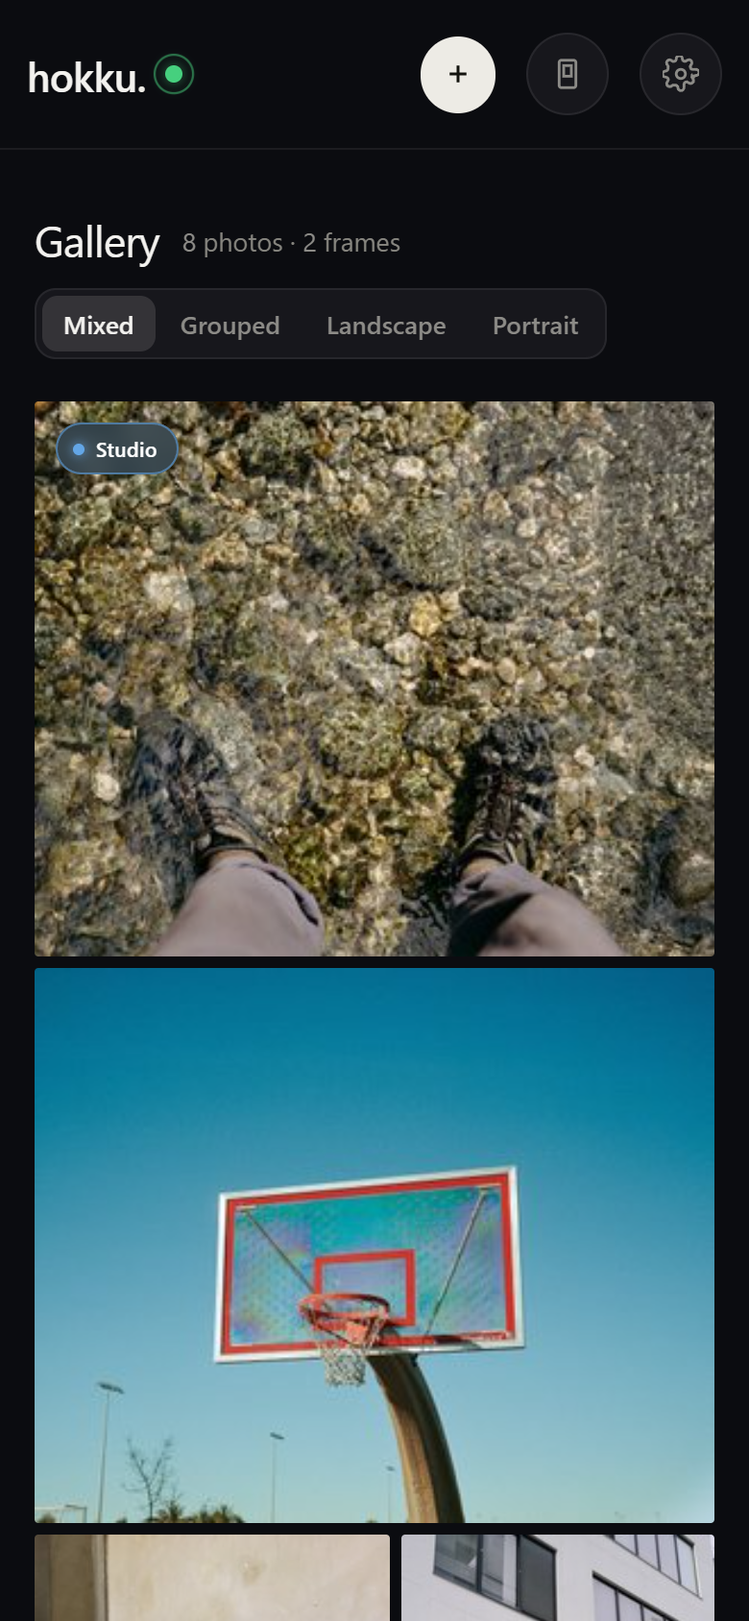
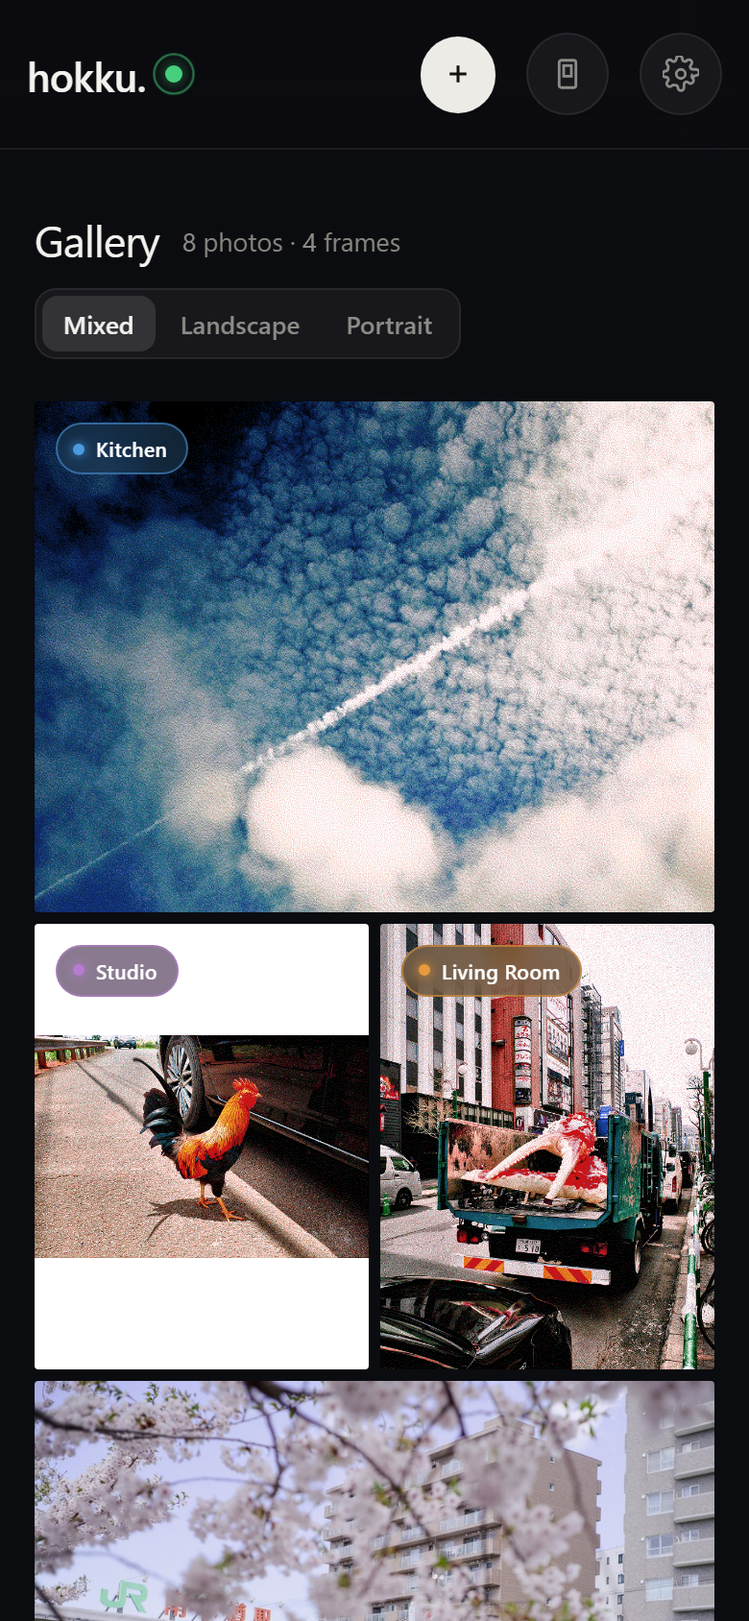
Manual: cover the new app features, with fresh screenshots
Brings the web-app manual up to date with everything added since the
July pushes, all screenshots taken from the demo server:

- Gallery: sort/show, longest-unseen sections, previous/next in the
  detail view.
- Editor: Fit/100% zoom (with a close-up of the magnifier button) and
  editing for an E1003 Mono frame.
- Frames: the redesigned drawer and its Settings shortcuts, a frame card
  close-up, the frame preview on Now and Up next, Skip up next, the
  fit line, and Rename.
- Settings: the Image Rendering page, the custom dither editor's zoom,
  and the E1003 tone editor.

diff --git a/docs/manual.md b/docs/manual.md
@@ -80,11 +80,21 @@ The gallery is the app's home screen, and it looks and works the same on a phone
 
 **Live previews** — every photo appears as a thumbnail of its **converted** six-colour render (what the frame will actually display, not the original), so you can catch anything that dithers poorly before it goes on the wall. The most recently uploaded photos appear first.
 
-**Arrangements** — the tabs at the top change the layout: **Mixed** lays every photo out in one flowing grid, **Grouped** splits them into Landscape and Portrait sections, and **Landscape** or **Portrait** show just one shape.
+**Arrangements** — the tabs at the top change the layout: **Mixed** lays every photo out in one flowing grid, and **Landscape** or **Portrait** show just one shape.
 
 **Thumbnail size** — the slider beside the tabs makes the thumbnails larger or smaller in any arrangement. On a phone, pinch the grid to zoom in and out instead.
 
-**Frame chips** — a photo that is currently on a frame carries a small coloured chip with that frame's name in its corner (a green “Living Room” chip, a blue “Studio” chip, and so on), so you can see at a glance which photo is on which wall. Every frame has its own colour, used consistently throughout the app.
+**Finding a photo** — once your library passes 60 photos, two more controls join the bar. **Sort** orders the grid by newest or oldest added, longest unseen, recently shown, or name. **Show** narrows it to **B&W** photos, photos with **People**, or **Non-People**, using the server's own photo analysis; while it's narrowed, the header count reads like “12 of 354 photos”.
+
+**Longest unseen** — sorting by when photos were last shown splits the grid into sections (*Never shown*, *Over a year*, *6–12 months*, *1–6 months*, *This month*), and each thumbnail says how long ago it was last on a frame.
+
+<a href="../images/ui_v2_gallery_find.png"><img src="../images/ui_v2_gallery_find.png" width="760" alt="The gallery bar: thumbnail size, Sort, Show (All, B&W, People, Non-People), and the shape tabs."></a>
+
+*The gallery bar: thumbnail size, Sort, Show, and the shape tabs. Sort and Show appear from 60 photos.*
+
+&nbsp;
+
+**Frame chips** — a photo that is currently on a frame carries a small coloured chip with that frame's name in its corner (a blue “Kitchen” chip, an orange “Living Room” chip, and so on), so you can see at a glance which photo is on which wall. Every frame has its own colour, chosen to stay easy to tell apart with colour blindness, and used consistently throughout the app.
 
 **Status badges** — a photo still being converted shows a **Converting** badge; anything that failed to convert is set aside in the failed panel (see [1.4](#14-uploading-photos-and-watching-progress)).
 
@@ -102,7 +112,7 @@ The gallery is the app's home screen, and it looks and works the same on a phone
 
 &nbsp;
 
-**Two views** — the toggle at the top switches between the **E-ink render** (how it will look on the frame) and the **Original**.
+**Two views** — the toggle at the top switches between the **Spectra 6** render (how it will look on the frame) and the **Original**. If you have a black-and-white E1003 frame, a third **Mono 16** tab shows how it will look on that frame.
 
 <a href="../images/ui_v2_two_views.png"><img src="../images/ui_v2_two_views.png" width="560" alt="Two buttons let you swap between dithered image and orignal photo."></a>
 
@@ -116,6 +126,12 @@ The gallery is the app's home screen, and it looks and works the same on a phone
 **Faces** — if the photo contains faces, a **Faces** button on the Original view outlines them.
 
 **Open full size** — click the image itself to open it full size in a new tab.
+
+**Moving between photos** — *on a computer*, press **←** or **→**, or click the arrows either side of the detail view, to step to the previous or next photo without closing it. The order matches the gallery's, including any sort or filter you have on.
+
+<a href="../images/ui_v2_detail_nav.png"><img src="../images/ui_v2_detail_nav.png" width="560" alt="The arrows either side of the detail view step to the previous and next photo."></a>
+
+*The arrows either side of the detail view (or the ← and → keys) step through your photos.*
 
 &nbsp;
 
@@ -134,6 +150,7 @@ The gallery is the app's home screen, and it looks and works the same on a phone
 - **Send to a frame** — with more than one frame connected, choose which frame should show this photo at its next refresh. If the photo's orientation does not match the frame's, Hokku asks you to confirm (“… shows landscape — send anyway?”) before sending.
 - **Show next** — with a single frame, queue the photo to be shown next.
 - **View details** — open the full detail view (from the menu or the action sheet).
+- **Download original** — in the detail view, save the photo exactly as you uploaded it.
 - **Delete** — remove the photo and all of its cached renders; a second tap confirms.
 - **Retry conversion** and **View error** — shown in place of the above for a photo that failed to convert.
 
@@ -230,6 +247,18 @@ Any photo can be **cropped, straightened, and fine-tuned** — before it goes on
 
 &nbsp;
 
+**Zoom in to check the dots.** The preview opens fitted to the screen. The **magnifier** button in its corner jumps to **100%**, one dot on the frame per dot on your screen, and back to **Fit**; double-click a spot (double-tap on a phone) or press **Z** to do the same. Scroll or pinch to zoom anywhere in between, and drag to move around. Press and hold still shows the original while you're zoomed in.
+
+<a href="../images/ui_v2_editor_zoom_btn.png"><img src="../images/ui_v2_editor_zoom_btn.png" width="132" alt="The magnifier button in the preview's corner, reading 1:1."></a>
+
+*The magnifier button: **1:1** zooms to 100%; zoomed in, it reads **Fit**.*
+
+<a href="../images/ui_v2_editor_zoom.png"><img src="../images/ui_v2_editor_zoom.png" height="360" alt="The editor zoomed to 100% on a computer: the magnifier reads Fit, with the zoom level and the full-resolution note along the bottom."></a> &nbsp; &nbsp; &nbsp; &nbsp; &nbsp; &nbsp; <a href="../images/ui_v2_mobile_editor_zoom.png"><img src="../images/ui_v2_mobile_editor_zoom.png" height="360" alt="The editor zoomed to 100% on a phone."></a>
+
+*At 100% on a computer … (left)* &nbsp; &nbsp; &nbsp; &nbsp; &nbsp; &nbsp; &nbsp; &nbsp; &nbsp; &nbsp; &nbsp; &nbsp; &nbsp; &nbsp; &nbsp; &nbsp; &nbsp; &nbsp; &nbsp; &nbsp; &nbsp; &nbsp; &nbsp; &nbsp; &nbsp; &nbsp; &nbsp; &nbsp; &nbsp; &nbsp; &nbsp; &nbsp; &nbsp; &nbsp; &nbsp; &nbsp; &nbsp; &nbsp; &nbsp; &nbsp; &nbsp; &nbsp; &nbsp; &nbsp; &nbsp; &nbsp;  *… and on a phone. (right)*
+
+&nbsp;
+
 **Pipeline presets — the ••• menu.** The **•••** button (by the badge on a computer, in the header on a phone) swaps the whole conversion pipeline at once: **Default**, **Face**, or **B&W**, plus **Auto (best-guess)** to return to the server's own choice and **Reset all** to drop every tweak. Reach for it when the automatic pick isn't what you want — for instance forcing **B&W** on a photo the detector read as colour.
 
 <a href="../images/ui_v2_editor_preset.png"><img src="../images/ui_v2_editor_preset.png" height="400" alt="The three-dot menu swaps the whole pipeline: Default, Face, B&W, Auto best-guess, and Reset all."></a> &nbsp; &nbsp; &nbsp; &nbsp; &nbsp; &nbsp; <a href="../images/ui_v2_mobile_editor_preset.png"><img src="../images/ui_v2_mobile_editor_preset.png" height="400" alt="The same three-dot preset menu opened in the editor on a phone."></a>
@@ -241,9 +270,17 @@ Any photo can be **cropped, straightened, and fine-tuned** — before it goes on
 
 **Fine-tuning the conversion.** Past the presets, the **Tonal**, **Color**, **Palette**, and **Kernel** tools expose the same controls as the Settings dither editor — tonal preparation, colour enhancement, the palette-matching LUT, and the dither kernel — with the preview updating live as you drag, and a dot marking any group you've changed. For what each control does and why, see [dithering.md](dithering.md).
 
+**Draft first, then full resolution.** While you move a slider, the preview updates from a quick half-resolution draft, and a small note under it reads **draft · half resolution**. About half a second after you stop, the full-resolution render, exactly what the frame will show, takes its place (**rendering full resolution…**, then **full resolution**). Judge fine detail on the full version.
+
 <a href="../images/ui_v2_mobile_editor.png"><img src="../images/ui_v2_mobile_editor.png" height="720" alt="The editor on a phone: the preview fills the screen with the tools along the bottom."></a>
 
 *On a phone the preview fills the screen and the tools sit along the bottom.*
+
+**Editing for a B&W frame.** If a black-and-white E1003 frame is connected, an **Editing for** switch at the top picks which version you're editing: **Color · Spectra 6** or **E1003 Mono**. The mono version previews in the B&W frame's 16 greys and in that frame's shape, and has its own tools: **Tone** (exposure, contrast, highlights, shadows, whites, blacks, and local contrast), **Advanced**, and **Details**. Its crop follows the colour crop (**Following Spectra crop**) until you choose **Frame separately**; **↺ Match Spectra** links them again.
+
+<a href="../images/ui_v2_editor_mono.png"><img src="../images/ui_v2_editor_mono.png" width="560" alt="The editor switched to E1003 Mono: a 16-grey preview in the B&W frame's shape, with the Tone controls."></a>
+
+*Editing for the B&W frame: its own 16-grey preview and Tone controls.*
 
 **Non-destructive, and re-editable.** Editing never alters your original — the server keeps it and simply renders a fresh six-colour version from your crop and settings. Re-open the same photo any time and the editor comes back exactly as you left it, every crop and adjustment restored, so you can nudge one value or hit **Reset all** and start over. Edit as often as you like.
 
@@ -257,21 +294,41 @@ Any photo can be **cropped, straightened, and fine-tuned** — before it goes on
 
 ### 1.6 Your frames
 
-**Opening the panel** — the **Frames** button in the header opens a panel of every frame that has connected to this server. On a computer it drops down and stays open while you browse the gallery.
+**Opening the panel** — the **Frames** button in the header opens a panel of every frame that has connected to this server. On a computer it is already open when the app loads, and stays open while you browse the gallery. On a phone or tablet it starts closed, so the gallery comes first.
 
-<a href="../images/ui_v2_frames.png"><img src="../images/ui_v2_frames.png" width="560" alt="The Frames panel: one card per connected frame."></a>
+<a href="../images/ui_v2_frames.png"><img src="../images/ui_v2_frames.png" width="760" alt="The Frames panel: one card per connected frame, with the Frame orientation and Refresh schedule shortcuts above them."></a>
 
-*The Frames panel: one card per connected frame.*
+*The Frames panel: one card per connected frame, with two Settings shortcuts above them.*
+
+**Shortcuts** — the **Frame orientation** and **Refresh schedule** buttons above the cards open those pages of Settings (see [1.7](#17-settings)). On a wide screen they sit in a column to the right of the cards.
+
+<a href="../images/ui_v2_frame_card.png"><img src="../images/ui_v2_frame_card.png" width="436" alt="A frame card: the photo the frame is showing, its name and colour dot, IP address, firmware, battery, next check-in and last seen."></a>
+
+*A frame card: the photo it's showing, and how the frame is doing.*
 
 **Each frame card** shows a thumbnail of the photo it is currently displaying, the frame's name and colour dot, its IP address and firmware version, its battery level (flagged red below 20%), when it was last seen, and when it is next expected to check in. A frame that has missed its expected check-in is flagged **Overdue**. An **Up next** thumbnail shows what it will display next — or **Pinned**, if you have sent a specific photo to it, which you can cancel here.
 
+<a href="../images/ui_v2_frame_preview.png"><img src="../images/ui_v2_frame_preview.png" height="480" alt="The frame preview on Now: the photo inside the frame's shape, with the photo, panel and fit line underneath."></a>
+
+*Tap a card's thumbnail to see the photo as that frame shows it.*
+
 **Seeing a photo as the frame shows it** — tap a card's thumbnail to open a preview of that frame: the photo drawn inside the frame's own shape, rendered exactly as the panel renders it — cropped or letterboxed the same way, and in black and white for a mono frame. Switch between **Now** and **Up next**, reroll a queued photo with **Skip up next**, or jump to the photo in your library. It's read-only; nothing you do here changes the framing.
+
+<a href="../images/ui_v2_frame_preview_next.png"><img src="../images/ui_v2_frame_preview_next.png" height="480" alt="The frame preview on Up next, with Skip up next underneath."></a>
+
+*The same preview on Up next, with Skip up next underneath.*
 
 **Skip up next** works through the frame's photos like a shuffled deck. First come the photos the frame would pick next anyway (usually ones it has never shown), in random order. Then come the rest, roughly the longest-unseen first. While the preview is open, no photo comes up twice until every photo that suits the frame has. After that it starts over, and a note says so. A skip only changes what that frame shows next: the photo you skipped keeps its place in the rotation and can come back after the frame's next refresh, and nothing about the other frame changes.
 
 The same preview opens from anywhere a photo and a frame meet: the frame badge on a gallery thumbnail, the **On display** and **Up next** rows in a photo's details, and **Preview frame** in a card's ⋯ menu.
 
+<a href="../images/ui_v2_frame_fit.png"><img src="../images/ui_v2_frame_fit.png" width="437" alt="The bottom of the frame preview: a landscape photo letterboxed on a portrait frame, and the line under it reading the photo's name, Spectra 6, and a landscape outline with Needs 100%."></a>
+
+*A landscape photo letterboxed on a portrait frame: its outline, and the Zoom to fill it needs.*
+
 Under the preview, a line names the photo, the panel type, and how the photo fits: **Exact fit** when it fills the frame with nothing lost, **Zoomed 71%** when it was scaled in to remove the bars (the edges are cropped), or **Needs 113%** when it's letterboxed — that number being the Zoom to fill value that would make it fill. A small outline before that label is the photo's own shape, shown only when it differs from the frame's.
+
+&nbsp;
 
 **How frames connect** — a frame doesn't hold a live connection; it wakes on schedule, fetches an image, and returns to deep sleep. The panel only updates when a frame checks in, so “last seen 12 hours ago” is normal, not a fault.
 
@@ -281,15 +338,25 @@ Under the preview, a line names the photo, the panel type, and how the photo fit
 
 **View diagnostics** — the **⋯** button on a card opens its menu. **View diagnostics** shows everything the frame reports about itself — firmware, wake reason, uptime, battery, Wi-Fi signal, free memory, clock drift, next wake, and the raw firmware log from its last few refreshes — enough to see why a refresh failed without reaching for a cable.
 
-**Orientation** — the diagnostics panel is also where you set the frame's orientation (Landscape or Portrait) and whether it should be sent only photos matching that orientation.
+**Orientation** — the diagnostics panel is also where you set the frame's orientation (Landscape or Portrait) and whether it should be sent only photos matching that orientation. To set every frame on one page, use the **Frame orientation** shortcut.
 
 **Remove a frame** — the same **⋯** menu has a **Remove frame** option.
+
+**Rename a frame** — **Rename**, in the same menu, gives a frame a friendlier name. It's shown only in the app: the name the frame was set up with stays its internal ID, so renaming never breaks anything. **Skip up next** is in the menu too, for a quick skip without opening the preview.
+
+<a href="../images/ui_v2_frame_menu.png"><img src="../images/ui_v2_frame_menu.png" width="190" alt="A frame card's ⋯ menu: Preview Frame, Rename, Skip up next, View diagnostics, Remove frame."></a>
+
+*A frame card's ⋯ menu.*
+
+&nbsp;
 
 <a href="../images/ui_v2_mobile_frames.png"><img src="../images/ui_v2_mobile_frames.png" height="720" alt="The Frames panel on a phone."></a>
 
 *The Frames panel on a phone.*
 
-**Multiple frames** — you can run as many frames as you like from one server. Each is tracked separately, keeps its own orientation, and draws from the same photo library.
+**Multiple frames** — you can run as many frames as you like from one server. Each is tracked separately, keeps its own orientation, and draws from the same photo library. The panel fits as many columns of cards as the screen has room for, down to one on a phone.
+
+**Black-and-white frames** — an E1003 frame works like any other, with photos rendered in its 16 greys. Its preview and the photo detail's **Mono 16** tab show exactly what it will display, and the editor can tune its version separately (see [1.5](#15-editing-a-photo)).
 
 &nbsp;
 
@@ -304,10 +371,9 @@ Under the preview, a line names the photo, the panel type, and how the photo fit
 **The categories:**
 
 - **Refresh Schedule** — how often each frame wakes to fetch a new photo: an **interval** (every 15 minutes up to 24 hours, optionally only during set hours so the battery lasts longer), or a list of **specific times**. The server computes each frame's sleep for you; a live line shows what's next.
-- **Frame Orientation** — set each connected frame to Landscape or Portrait, and whether it should be sent only matching photos (the same controls as in a frame's diagnostics).
-- **Smart Photo Detection** — whether Hokku detects black-and-white photos and faces and routes each to a conversion tuned for it, with an option to protect faces from local-contrast boosting. It all runs on your own server; nothing leaves your network.
-- **Image Conversion & Colour** — the default dither preset, how far a photo may be zoomed to fill the frame rather than showing letterbox bars, and whether a photo that must be zoomed keeps faces in frame.
-- **Server & Storage** — how often the app polls for updates, the debug screen, automatic cache clearing, the mDNS/Bonjour name, how many photos convert in parallel, and a button to clear all caches and reconvert.
+- **Frame Orientation** — set each connected frame to Landscape or Portrait, and turn on **Only matching images** to send it only photos of that shape (the same controls as in a frame's diagnostics).
+- **Image Rendering** — how photos are converted for the frames, all on one page: a section for each kind of photo, cropping and framing, and the look of a B&W frame. See below.
+- **Server & Storage** — how often the app polls for updates, the debug screen (fast test refreshes that don't use up any photo's turn), the serve-decision log (a troubleshooting record; leave it off normally), automatic cache clearing, the mDNS/Bonjour name, how many photos convert in parallel, and a button to clear all caches and reconvert.
 
 &nbsp; 
 &nbsp; 
@@ -316,13 +382,43 @@ Under the preview, a line names the photo, the panel type, and how the photo fit
 
 *On a phone, Settings is a list you drill into.*
 
-**Custom dither editor** — any conversion preset can be opened for fine tuning with its **Custom…** button, which brings up the dither editor on a computer.
+&nbsp;
 
-<a href="../images/ui_v2_dither.png"><img src="../images/ui_v2_dither.png" width="560" alt="The custom dither editor, with a live six-colour preview."></a>
+**Image Rendering** — Hokku checks each photo for faces and for black and white, then converts it with the pipeline for that kind of photo. It all runs on your own server; nothing leaves your network.
+
+<a href="../images/ui_v2_settings_rendering.png"><img src="../images/ui_v2_settings_rendering.png" width="560" alt="Settings, Image Rendering: Standard images, Portraits and Black & white images, each with its own dither preset."></a>
+
+*Image Rendering: a section for each kind of photo, each with its own dither preset.*
+
+- **Standard images** — the **Dither preset** for every photo that isn't a portrait or black and white.
+- **Portraits** — **Detect faces** turns this on. Photos with faces get their own dither preset, tuned so skin doesn't turn orange or grey, and **Protect faces from local contrast (CLAHE)** keeps the contrast boost off skin.
+- **Black & white images** — **Detect B&W images** turns this on, for film scans and monochrome art. Their preset skips colour boosting, so greys don't take on a pink or yellow tint.
+- **Cropping & framing** — **Zoom to fill** sets how far a photo that isn't the frame's shape may be zoomed in, cropping its edges, instead of showing white letterbox bars. 0% always shows bars; the page lists the zoom common shapes need. Photos you've cropped in the editor already fit. **Face-aware cropping** keeps faces in the frame when a photo is zoomed, and needs **Detect faces** on.
+- **E1003 Mono** — shown only when a B&W frame is connected: its **Tone profile**, either **Faithful** or **B&W Contrast**, or your own **Custom** (see the tone editor below).
+
+**Reset to defaults**, at the bottom of the page, restores the presets, detection and cropping. It leaves the E1003 look alone.
+
+&nbsp;
+
+**Custom dither editor** — any conversion preset can be opened for fine tuning with its **Custom…** button, which brings up the dither editor on a computer. Its title names the kind of photo you're tuning.
+
+<a href="../images/ui_v2_dither.png"><img src="../images/ui_v2_dither.png" width="560" alt="The custom dither editor, with a live six-colour preview and the magnifier in its corner."></a>
 
 *The custom dither editor, with a live six-colour preview.*
 
 The editor groups every conversion control into five stages — tonal preparation, colour enhancement, dynamic-range compression, palette matching, and the dither kernel — and shows a **live preview** of a real photo rendered with your current settings, updating as you adjust each control. Choose a different preview photo from the row beneath it. For a full explanation of what each control does and why the defaults are what they are, see [dithering.md](dithering.md).
+
+**Zooming in** — the preview opens fitted to its box. As in the photo editor, the **magnifier** in its corner switches between **Fit** and **100%** (one dot on the frame per dot on your screen); double-click a spot or press **Z** to do the same, and drag to move around. There is no scroll or pinch zoom here.
+
+&nbsp;
+
+**E1003 tone editor** — with a B&W frame connected, **Edit custom…** in the E1003 Mono section opens the tone editor for the **Custom** profile, on a computer. Its controls sit on three pages — **Tone**, **Advanced Local Contrast**, and **Details** — beside a live preview in the frame's 16 greys. Press and hold the preview to compare it with how it looked when you opened the editor. It zooms the same way as the dither editor.
+
+<a href="../images/ui_v2_tone.png"><img src="../images/ui_v2_tone.png" width="560" alt="The E1003 tone editor: the Tone controls beside a live 16-grey preview of the B&W frame."></a>
+
+*The E1003 tone editor, with a live 16-grey preview.*
+
+**Reset to saved** puts the controls back to your last saved settings. **Reset to defaults** puts Custom back to its shipped settings; click it twice to confirm. Nothing is kept until you press **Use these settings** and then **Save**. The Image Rendering page's own **Reset to defaults** never touches the E1003 look.
 
 &nbsp;
 
@@ -336,7 +432,7 @@ The editor groups every conversion control into five stages — tonal preparatio
 
 <a href="../images/ui_v2_server.png"><img src="../images/ui_v2_server.png" width="560" alt="Clicking the wordmark opens server info — a drawer on a computer."></a>
 
-* Clicking the wordmark opens server info — a drawer on a computer.*
+*Clicking the wordmark opens server info — a drawer on a computer.*
 
 &nbsp;
 
@@ -347,6 +443,10 @@ The editor groups every conversion control into five stages — tonal preparatio
 *On a phone the same information opens as a panel.*
 
 **The footer** — the current server time and version also appear in the footer at the bottom of every page.
+
+&nbsp;
+
+**Backups and power cuts** — your photo library's database (which holds every edit), the rotation history, and your settings are saved safely: the previous copy is kept as a `.bak`, and dated snapshots go to a `backups` folder next to the cache folder. After a crash the server recovers from the `.bak` on its own. If even that fails, it refuses to start rather than overwrite your edits, and says how to restore a snapshot from `backups/`.
 
 ---
 
@@ -448,7 +548,7 @@ See [dithering.md](dithering.md) for more detail on how this interacts with the 
 
 **Config file options** — a few settings can't be changed from the web app and need to be edited in the config file directly (`/var/lib/hokku/config.json` on a deb install, or `./config.json` from source). These are:
 
-- **`mdns_hostname`** — the mDNS/Bonjour hostname the server advertises on your network. When set (default: `"hokku"`), the server is reachable as `hokku.local` in addition to its IP address, which means you can bookmark `http://hokku.local:8080/` and never worry about the IP changing. Set to an empty string to disable mDNS.
+- **`mdns_hostname`** — the mDNS/Bonjour hostname the server advertises on your network. When set (default: `"hokku"`), the server is reachable as `hokku.local` in addition to its IP address, which means you can bookmark `http://hokku.local:8080/` and never worry about the IP changing. Set to an empty string to disable mDNS. If the server's computer also runs a VPN, the server still announces itself on your home network, and if Wi-Fi or the VPN reconnects, it re-announces `hokku.local` by itself within about a minute.
 - **`port`** — the port the server listens on (default: `8080`). Change this if something else on your server is already using 8080.
 - **`upload_dir`** / **`cache_dir`** — where originals and converted images are stored. The defaults are sensible for a deb install; override these if you want to put your photo library on a different drive or mount point.
 
